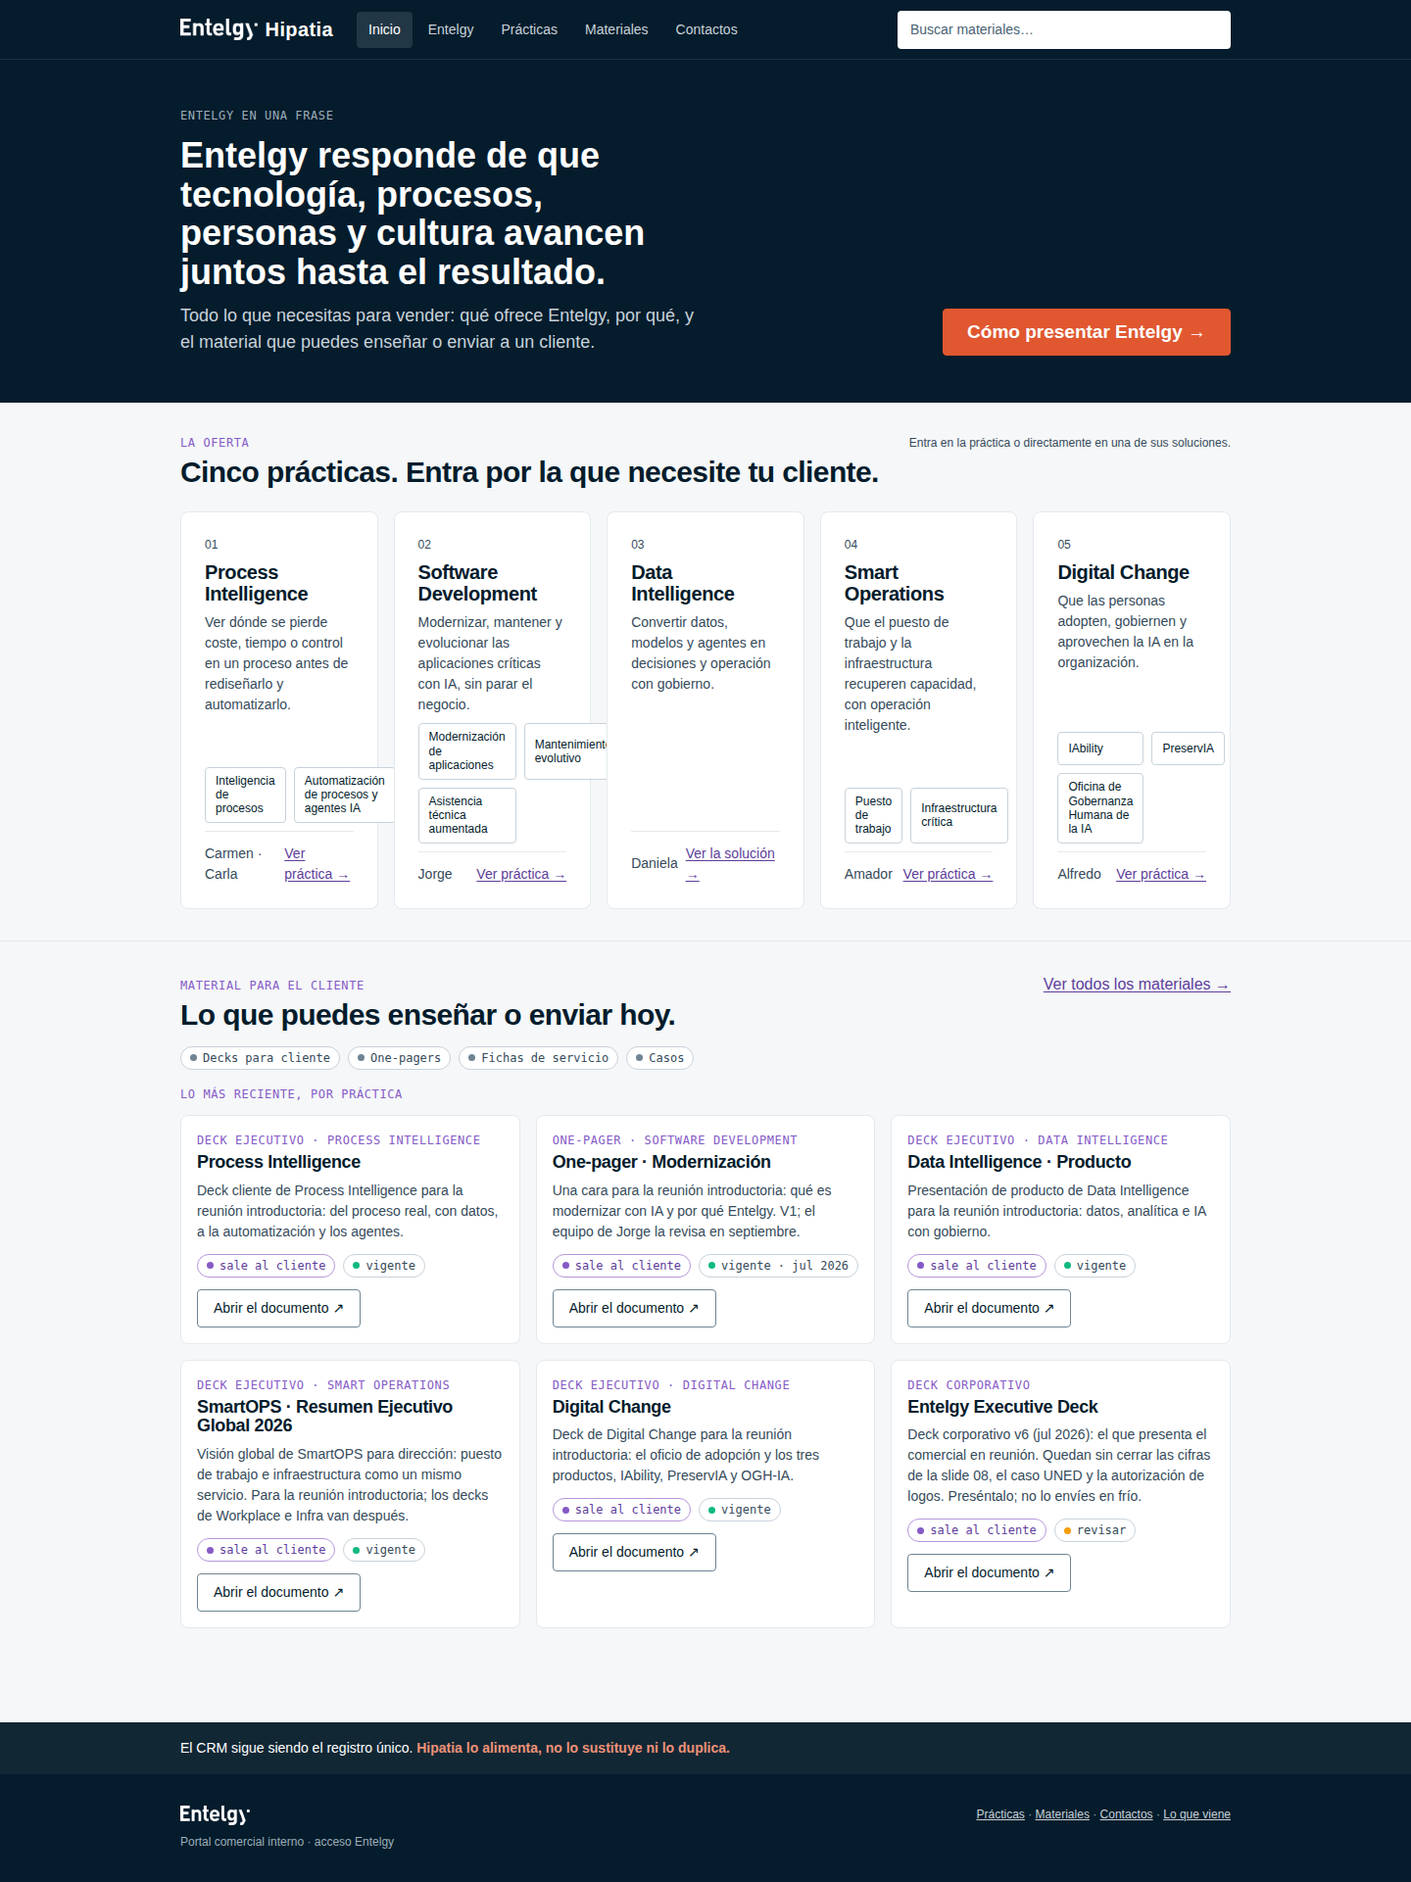
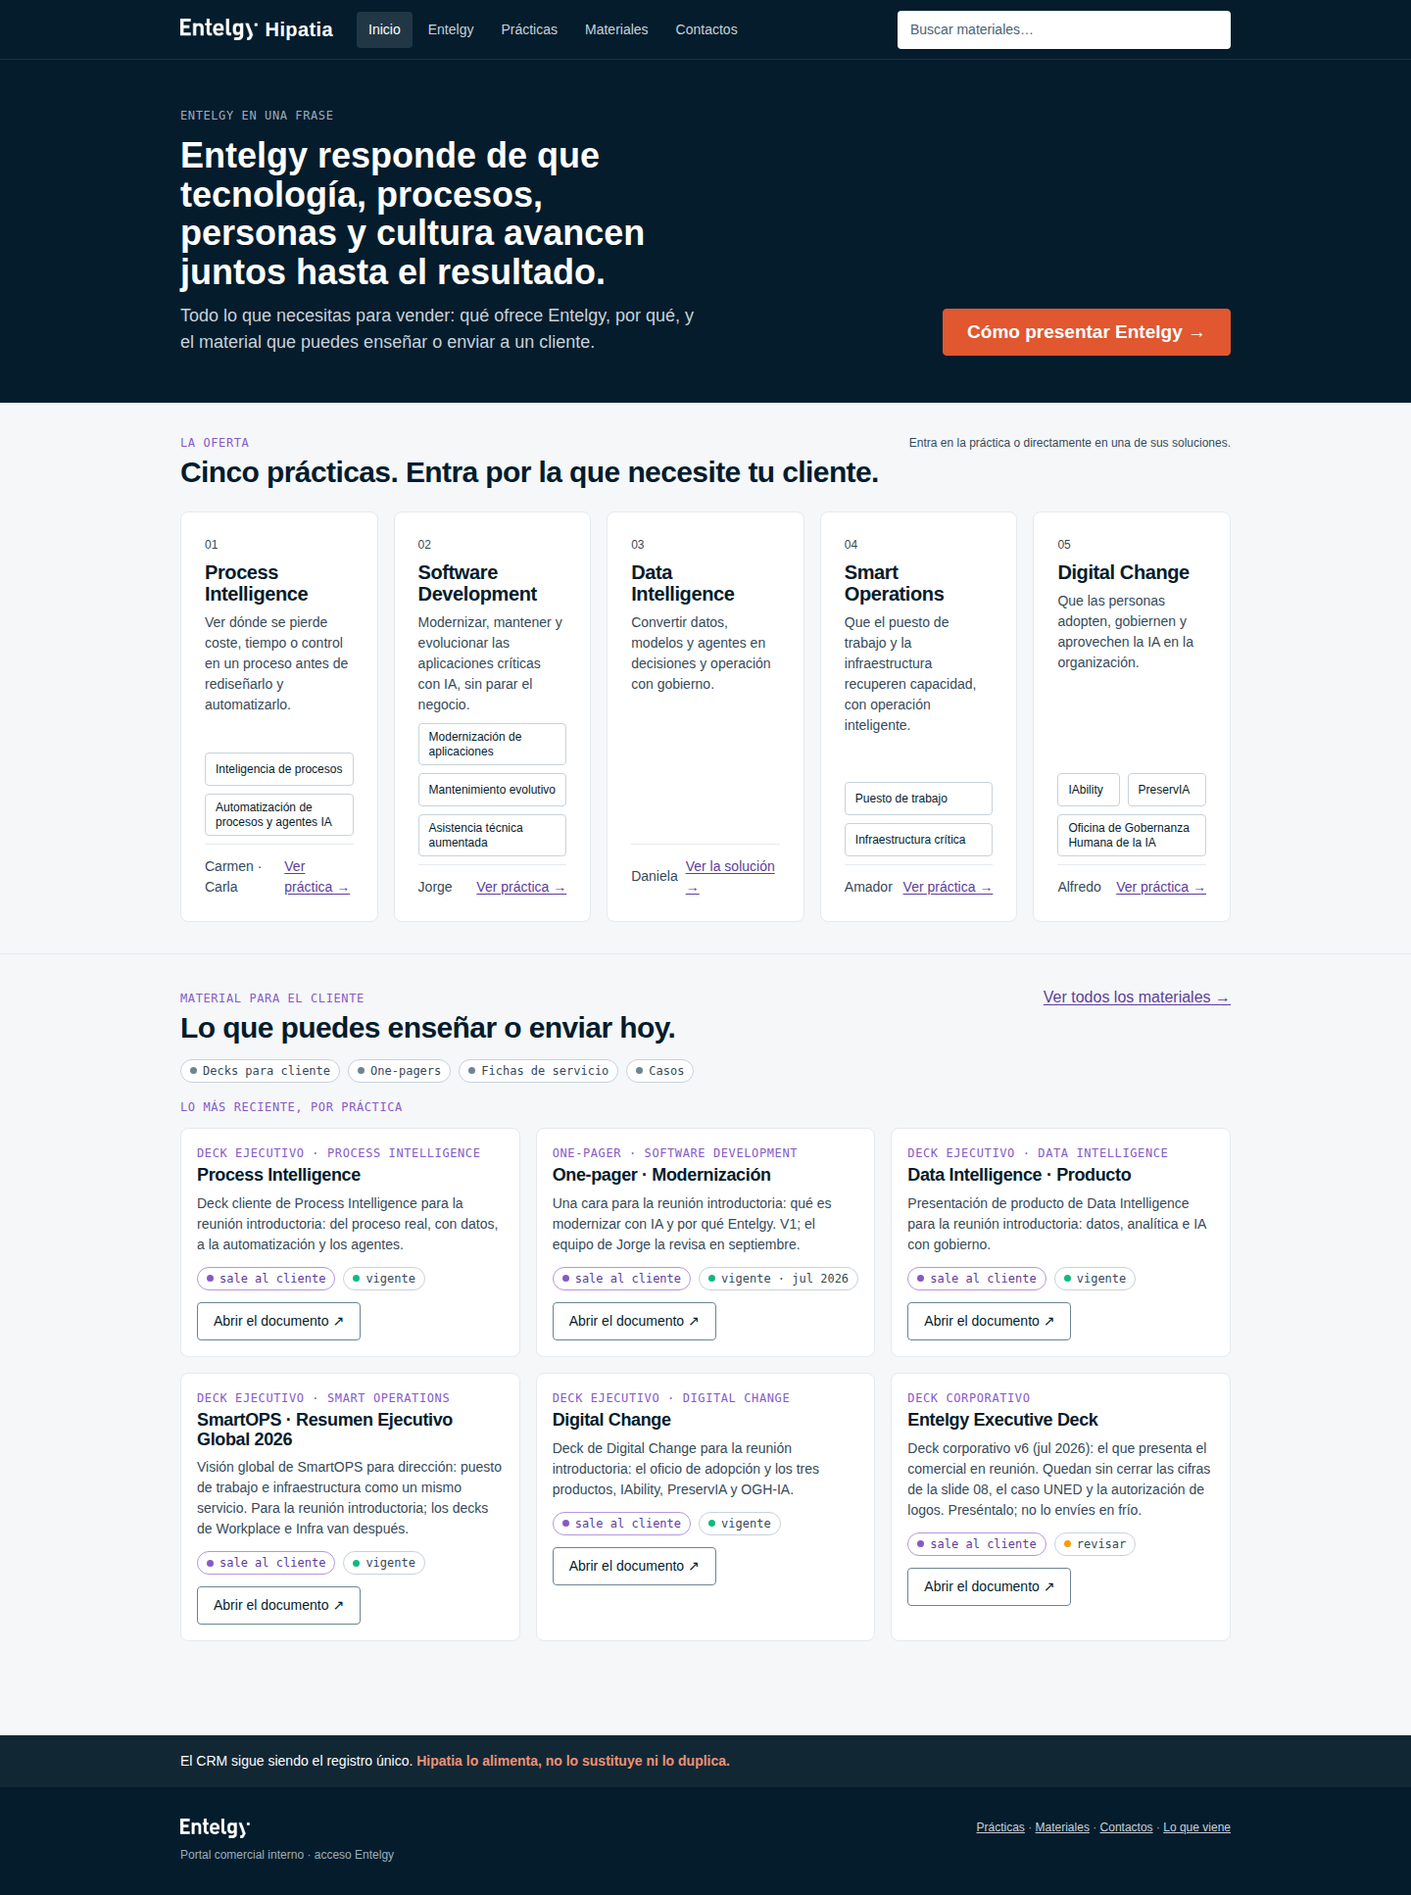
v3: build y medición tras los ajustes de chip y cajas de portada
Regenerados public/ y docs/medicion. medir.js en verde (§6.8: 2,3,5,6,7,8; peso máx 137 KB).

Claude-Session: https://claude.ai/code/session_01MVvbucM9Dr31EjbaQCaUFZ

diff --git a/public/materiales/index.html b/public/materiales/index.html
@@ -209,7 +209,7 @@
       <div class="chips" style="margin-top:var(--space-3)"><span class="chip is-citable">citable · sign-off jul 2026</span><span class="chip is-vigente">vigente · jul 2026</span><span class="chip">Jorge</span></div>
       <div style="margin-top:var(--space-3);display:flex;gap:var(--space-2);flex-wrap:wrap">
         <a class="btn btn-ghost" href="/materiales/mod-caso-nasertic/" data-open-modal-url="/materiales/mod-caso-nasertic/" data-modal-label="NASERTIC · Gobierno de Navarra">Ver ficha</a>
-        <span class="chip">enlace pendiente</span>
+        <span class="chip">sin documento aparte</span>
       </div>
     </article><article class="card" data-material
       data-practica="software-development" data-uso="con_validacion" data-tipo="referencia" data-estado="vigente"
@@ -221,7 +221,7 @@
       <div class="chips" style="margin-top:var(--space-3)"><span class="chip is-citable">citable · sign-off jul 2026</span><span class="chip is-vigente">vigente · jul 2026</span><span class="chip">Jorge</span></div>
       <div style="margin-top:var(--space-3);display:flex;gap:var(--space-2);flex-wrap:wrap">
         <a class="btn btn-ghost" href="/materiales/mod-caso-uned/" data-open-modal-url="/materiales/mod-caso-uned/" data-modal-label="UNED">Ver ficha</a>
-        <span class="chip">enlace pendiente</span>
+        <span class="chip">sin documento aparte</span>
       </div>
     </article><article class="card" data-material
       data-practica="software-development" data-uso="con_validacion" data-tipo="referencia" data-estado="vigente"
@@ -233,7 +233,7 @@
       <div class="chips" style="margin-top:var(--space-3)"><span class="chip is-citable">citable · sign-off jul 2026</span><span class="chip is-vigente">vigente · jul 2026</span><span class="chip">Jorge</span></div>
       <div style="margin-top:var(--space-3);display:flex;gap:var(--space-2);flex-wrap:wrap">
         <a class="btn btn-ghost" href="/materiales/mod-caso-dgoj/" data-open-modal-url="/materiales/mod-caso-dgoj/" data-modal-label="DGOJ · Dirección General de Ordenación del Juego">Ver ficha</a>
-        <span class="chip">enlace pendiente</span>
+        <span class="chip">sin documento aparte</span>
       </div>
     </article><article class="card" data-material
       data-practica="software-development" data-uso="con_validacion" data-tipo="referencia" data-estado="vigente"
@@ -245,7 +245,7 @@
       <div class="chips" style="margin-top:var(--space-3)"><span class="chip is-citable">citable · sign-off jul 2026</span><span class="chip is-vigente">vigente · jul 2026</span><span class="chip">Jorge</span></div>
       <div style="margin-top:var(--space-3);display:flex;gap:var(--space-2);flex-wrap:wrap">
         <a class="btn btn-ghost" href="/materiales/mod-caso-aesa/" data-open-modal-url="/materiales/mod-caso-aesa/" data-modal-label="AESA · Agencia Estatal de Seguridad Aérea">Ver ficha</a>
-        <span class="chip">enlace pendiente</span>
+        <span class="chip">sin documento aparte</span>
       </div>
     </article><article class="card" data-material
       data-practica="software-development" data-uso="con_validacion" data-tipo="referencia" data-estado="vigente"
@@ -257,7 +257,7 @@
       <div class="chips" style="margin-top:var(--space-3)"><span class="chip is-citable">citable · sign-off jul 2026</span><span class="chip is-vigente">vigente · jul 2026</span><span class="chip">Jorge</span></div>
       <div style="margin-top:var(--space-3);display:flex;gap:var(--space-2);flex-wrap:wrap">
         <a class="btn btn-ghost" href="/materiales/mod-caso-h10/" data-open-modal-url="/materiales/mod-caso-h10/" data-modal-label="H10 Hotels">Ver ficha</a>
-        <span class="chip">enlace pendiente</span>
+        <span class="chip">sin documento aparte</span>
       </div>
     </article><article class="card" data-material
       data-practica="software-development" data-uso="con_validacion" data-tipo="referencia" data-estado="vigente"
@@ -269,7 +269,7 @@
       <div class="chips" style="margin-top:var(--space-3)"><span class="chip is-citable">citable · sign-off jul 2026</span><span class="chip is-vigente">vigente · jul 2026</span><span class="chip">Jorge</span></div>
       <div style="margin-top:var(--space-3);display:flex;gap:var(--space-2);flex-wrap:wrap">
         <a class="btn btn-ghost" href="/materiales/mod-caso-miciu/" data-open-modal-url="/materiales/mod-caso-miciu/" data-modal-label="Ministerio de Ciencia · AEI">Ver ficha</a>
-        <span class="chip">enlace pendiente</span>
+        <span class="chip">sin documento aparte</span>
       </div>
     </article><article class="card" data-material
       data-practica="corporativo" data-uso="si" data-tipo="Deck corporativo" data-estado="revisar"

diff --git a/public/materiales/mod-caso-nasertic/index.html b/public/materiales/mod-caso-nasertic/index.html
@@ -42,7 +42,7 @@
       <div class="chips" style="margin-top:var(--space-2)"><span class="chip is-vigente">1.000 h documentadas en 1 semana</span><span class="chip is-vigente">70% de ahorro</span><span class="chip is-vigente">9 → 3 meses</span></div>
     </div>
     <div style="margin-top:var(--space-4)"><div class="grid-2" style="gap:var(--space-3);padding:var(--space-2) 0;border-top:1px solid var(--color-border-subtle)"><b>Tipo</b><div>referencia</div></div><div class="grid-2" style="gap:var(--space-3);padding:var(--space-2) 0;border-top:1px solid var(--color-border-subtle)"><b>Práctica</b><div>Software Development</div></div><div class="grid-2" style="gap:var(--space-3);padding:var(--space-2) 0;border-top:1px solid var(--color-border-subtle)"><b>Citabilidad</b><div><span class="chip is-citable">citable · sign-off jul 2026</span> <span class="footer-note">Jorge Herrero · jul 2026</span></div></div><div class="grid-2" style="gap:var(--space-3);padding:var(--space-2) 0;border-top:1px solid var(--color-border-subtle)"><b>Envío al cliente</b><div><span class="footer-note">Citable en presentación · el envío formal al cliente se autoriza por cuenta.</span></div></div><div class="grid-2" style="gap:var(--space-3);padding:var(--space-2) 0;border-top:1px solid var(--color-border-subtle)"><b>Estado</b><div><span class="chip is-vigente">vigente · jul 2026</span></div></div><div class="grid-2" style="gap:var(--space-3);padding:var(--space-2) 0;border-top:1px solid var(--color-border-subtle)"><b>Dueño</b><div>Jorge <span class="footer-note">(✍ SM)</span></div></div><div class="grid-2" style="gap:var(--space-3);padding:var(--space-2) 0;border-top:1px solid var(--color-border-subtle)"><b>Sector</b><div>Sector público</div></div><div class="grid-2" style="gap:var(--space-3);padding:var(--space-2) 0;border-top:1px solid var(--color-border-subtle)"><b>Momento</b><div>Aportar prueba</div></div></div>
-    <p style="margin-top:var(--space-4)"><span class="chip">enlace pendiente</span></p></div>
+    <p style="margin-top:var(--space-4)"><span class="chip">sin documento aparte</span></p></div>
   </div></section>
 </main>
 <footer class="site-footer">

diff --git a/public/materiales/mod-caso-h10/index.html b/public/materiales/mod-caso-h10/index.html
@@ -42,7 +42,7 @@
       <div class="chips" style="margin-top:var(--space-2)"><span class="chip is-revisar">~−90% del tiempo de documentación · cifra en verificación</span></div>
     </div>
     <div style="margin-top:var(--space-4)"><div class="grid-2" style="gap:var(--space-3);padding:var(--space-2) 0;border-top:1px solid var(--color-border-subtle)"><b>Tipo</b><div>referencia</div></div><div class="grid-2" style="gap:var(--space-3);padding:var(--space-2) 0;border-top:1px solid var(--color-border-subtle)"><b>Práctica</b><div>Software Development</div></div><div class="grid-2" style="gap:var(--space-3);padding:var(--space-2) 0;border-top:1px solid var(--color-border-subtle)"><b>Citabilidad</b><div><span class="chip is-citable">citable · sign-off jul 2026</span> <span class="footer-note">Jorge Herrero · jul 2026</span></div></div><div class="grid-2" style="gap:var(--space-3);padding:var(--space-2) 0;border-top:1px solid var(--color-border-subtle)"><b>Envío al cliente</b><div><span class="footer-note">Citable en presentación · el envío formal al cliente se autoriza por cuenta.</span></div></div><div class="grid-2" style="gap:var(--space-3);padding:var(--space-2) 0;border-top:1px solid var(--color-border-subtle)"><b>Estado</b><div><span class="chip is-vigente">vigente · jul 2026</span></div></div><div class="grid-2" style="gap:var(--space-3);padding:var(--space-2) 0;border-top:1px solid var(--color-border-subtle)"><b>Dueño</b><div>Jorge <span class="footer-note">(✍ SM)</span></div></div><div class="grid-2" style="gap:var(--space-3);padding:var(--space-2) 0;border-top:1px solid var(--color-border-subtle)"><b>Sector</b><div>Turismo</div></div><div class="grid-2" style="gap:var(--space-3);padding:var(--space-2) 0;border-top:1px solid var(--color-border-subtle)"><b>Momento</b><div>Aportar prueba</div></div></div>
-    <p style="margin-top:var(--space-4)"><span class="chip">enlace pendiente</span></p></div>
+    <p style="margin-top:var(--space-4)"><span class="chip">sin documento aparte</span></p></div>
   </div></section>
 </main>
 <footer class="site-footer">

diff --git a/public/materiales/mod-caso-miciu/index.html b/public/materiales/mod-caso-miciu/index.html
@@ -42,7 +42,7 @@
       <div class="chips" style="margin-top:var(--space-2)"><span class="chip is-revisar">+40% de cumplimiento de SLA · cifra en verificación</span></div>
     </div>
     <div style="margin-top:var(--space-4)"><div class="grid-2" style="gap:var(--space-3);padding:var(--space-2) 0;border-top:1px solid var(--color-border-subtle)"><b>Tipo</b><div>referencia</div></div><div class="grid-2" style="gap:var(--space-3);padding:var(--space-2) 0;border-top:1px solid var(--color-border-subtle)"><b>Práctica</b><div>Software Development</div></div><div class="grid-2" style="gap:var(--space-3);padding:var(--space-2) 0;border-top:1px solid var(--color-border-subtle)"><b>Citabilidad</b><div><span class="chip is-citable">citable · sign-off jul 2026</span> <span class="footer-note">Jorge Herrero · jul 2026</span></div></div><div class="grid-2" style="gap:var(--space-3);padding:var(--space-2) 0;border-top:1px solid var(--color-border-subtle)"><b>Envío al cliente</b><div><span class="footer-note">Citable en presentación · el envío formal al cliente se autoriza por cuenta.</span></div></div><div class="grid-2" style="gap:var(--space-3);padding:var(--space-2) 0;border-top:1px solid var(--color-border-subtle)"><b>Estado</b><div><span class="chip is-vigente">vigente · jul 2026</span></div></div><div class="grid-2" style="gap:var(--space-3);padding:var(--space-2) 0;border-top:1px solid var(--color-border-subtle)"><b>Dueño</b><div>Jorge <span class="footer-note">(✍ SM)</span></div></div><div class="grid-2" style="gap:var(--space-3);padding:var(--space-2) 0;border-top:1px solid var(--color-border-subtle)"><b>Sector</b><div>Sector público</div></div><div class="grid-2" style="gap:var(--space-3);padding:var(--space-2) 0;border-top:1px solid var(--color-border-subtle)"><b>Momento</b><div>Aportar prueba</div></div></div>
-    <p style="margin-top:var(--space-4)"><span class="chip">enlace pendiente</span></p></div>
+    <p style="margin-top:var(--space-4)"><span class="chip">sin documento aparte</span></p></div>
   </div></section>
 </main>
 <footer class="site-footer">

diff --git a/public/materiales/mod-caso-aesa/index.html b/public/materiales/mod-caso-aesa/index.html
@@ -42,7 +42,7 @@
       <div class="chips" style="margin-top:var(--space-2)"><span class="chip is-revisar">+80% de automatización · cifra en verificación</span></div>
     </div>
     <div style="margin-top:var(--space-4)"><div class="grid-2" style="gap:var(--space-3);padding:var(--space-2) 0;border-top:1px solid var(--color-border-subtle)"><b>Tipo</b><div>referencia</div></div><div class="grid-2" style="gap:var(--space-3);padding:var(--space-2) 0;border-top:1px solid var(--color-border-subtle)"><b>Práctica</b><div>Software Development</div></div><div class="grid-2" style="gap:var(--space-3);padding:var(--space-2) 0;border-top:1px solid var(--color-border-subtle)"><b>Citabilidad</b><div><span class="chip is-citable">citable · sign-off jul 2026</span> <span class="footer-note">Jorge Herrero · jul 2026</span></div></div><div class="grid-2" style="gap:var(--space-3);padding:var(--space-2) 0;border-top:1px solid var(--color-border-subtle)"><b>Envío al cliente</b><div><span class="footer-note">Citable en presentación · el envío formal al cliente se autoriza por cuenta.</span></div></div><div class="grid-2" style="gap:var(--space-3);padding:var(--space-2) 0;border-top:1px solid var(--color-border-subtle)"><b>Estado</b><div><span class="chip is-vigente">vigente · jul 2026</span></div></div><div class="grid-2" style="gap:var(--space-3);padding:var(--space-2) 0;border-top:1px solid var(--color-border-subtle)"><b>Dueño</b><div>Jorge <span class="footer-note">(✍ SM)</span></div></div><div class="grid-2" style="gap:var(--space-3);padding:var(--space-2) 0;border-top:1px solid var(--color-border-subtle)"><b>Sector</b><div>Sector público</div></div><div class="grid-2" style="gap:var(--space-3);padding:var(--space-2) 0;border-top:1px solid var(--color-border-subtle)"><b>Momento</b><div>Aportar prueba</div></div></div>
-    <p style="margin-top:var(--space-4)"><span class="chip">enlace pendiente</span></p></div>
+    <p style="margin-top:var(--space-4)"><span class="chip">sin documento aparte</span></p></div>
   </div></section>
 </main>
 <footer class="site-footer">

diff --git a/public/materiales/mod-caso-dgoj/index.html b/public/materiales/mod-caso-dgoj/index.html
@@ -42,7 +42,7 @@
       <div class="chips" style="margin-top:var(--space-2)"><span class="chip is-vigente">40–60% menos de coste de mantenimiento</span></div>
     </div>
     <div style="margin-top:var(--space-4)"><div class="grid-2" style="gap:var(--space-3);padding:var(--space-2) 0;border-top:1px solid var(--color-border-subtle)"><b>Tipo</b><div>referencia</div></div><div class="grid-2" style="gap:var(--space-3);padding:var(--space-2) 0;border-top:1px solid var(--color-border-subtle)"><b>Práctica</b><div>Software Development</div></div><div class="grid-2" style="gap:var(--space-3);padding:var(--space-2) 0;border-top:1px solid var(--color-border-subtle)"><b>Citabilidad</b><div><span class="chip is-citable">citable · sign-off jul 2026</span> <span class="footer-note">Jorge Herrero · jul 2026</span></div></div><div class="grid-2" style="gap:var(--space-3);padding:var(--space-2) 0;border-top:1px solid var(--color-border-subtle)"><b>Envío al cliente</b><div><span class="footer-note">Citable en presentación · el envío formal al cliente se autoriza por cuenta.</span></div></div><div class="grid-2" style="gap:var(--space-3);padding:var(--space-2) 0;border-top:1px solid var(--color-border-subtle)"><b>Estado</b><div><span class="chip is-vigente">vigente · jul 2026</span></div></div><div class="grid-2" style="gap:var(--space-3);padding:var(--space-2) 0;border-top:1px solid var(--color-border-subtle)"><b>Dueño</b><div>Jorge <span class="footer-note">(✍ SM)</span></div></div><div class="grid-2" style="gap:var(--space-3);padding:var(--space-2) 0;border-top:1px solid var(--color-border-subtle)"><b>Sector</b><div>Sector público</div></div><div class="grid-2" style="gap:var(--space-3);padding:var(--space-2) 0;border-top:1px solid var(--color-border-subtle)"><b>Momento</b><div>Aportar prueba</div></div></div>
-    <p style="margin-top:var(--space-4)"><span class="chip">enlace pendiente</span></p></div>
+    <p style="margin-top:var(--space-4)"><span class="chip">sin documento aparte</span></p></div>
   </div></section>
 </main>
 <footer class="site-footer">

diff --git a/public/materiales/mod-caso-uned/index.html b/public/materiales/mod-caso-uned/index.html
@@ -42,7 +42,7 @@
       <div class="chips" style="margin-top:var(--space-2)"><span class="chip is-vigente">−30% de esfuerzo</span></div>
     </div>
     <div style="margin-top:var(--space-4)"><div class="grid-2" style="gap:var(--space-3);padding:var(--space-2) 0;border-top:1px solid var(--color-border-subtle)"><b>Tipo</b><div>referencia</div></div><div class="grid-2" style="gap:var(--space-3);padding:var(--space-2) 0;border-top:1px solid var(--color-border-subtle)"><b>Práctica</b><div>Software Development</div></div><div class="grid-2" style="gap:var(--space-3);padding:var(--space-2) 0;border-top:1px solid var(--color-border-subtle)"><b>Citabilidad</b><div><span class="chip is-citable">citable · sign-off jul 2026</span> <span class="footer-note">Jorge Herrero · jul 2026</span></div></div><div class="grid-2" style="gap:var(--space-3);padding:var(--space-2) 0;border-top:1px solid var(--color-border-subtle)"><b>Envío al cliente</b><div><span class="footer-note">Citable en presentación · el envío formal al cliente se autoriza por cuenta.</span></div></div><div class="grid-2" style="gap:var(--space-3);padding:var(--space-2) 0;border-top:1px solid var(--color-border-subtle)"><b>Estado</b><div><span class="chip is-vigente">vigente · jul 2026</span></div></div><div class="grid-2" style="gap:var(--space-3);padding:var(--space-2) 0;border-top:1px solid var(--color-border-subtle)"><b>Dueño</b><div>Jorge <span class="footer-note">(✍ SM)</span></div></div><div class="grid-2" style="gap:var(--space-3);padding:var(--space-2) 0;border-top:1px solid var(--color-border-subtle)"><b>Sector</b><div>Sector público · Educación</div></div><div class="grid-2" style="gap:var(--space-3);padding:var(--space-2) 0;border-top:1px solid var(--color-border-subtle)"><b>Momento</b><div>Aportar prueba</div></div></div>
-    <p style="margin-top:var(--space-4)"><span class="chip">enlace pendiente</span></p></div>
+    <p style="margin-top:var(--space-4)"><span class="chip">sin documento aparte</span></p></div>
   </div></section>
 </main>
 <footer class="site-footer">
